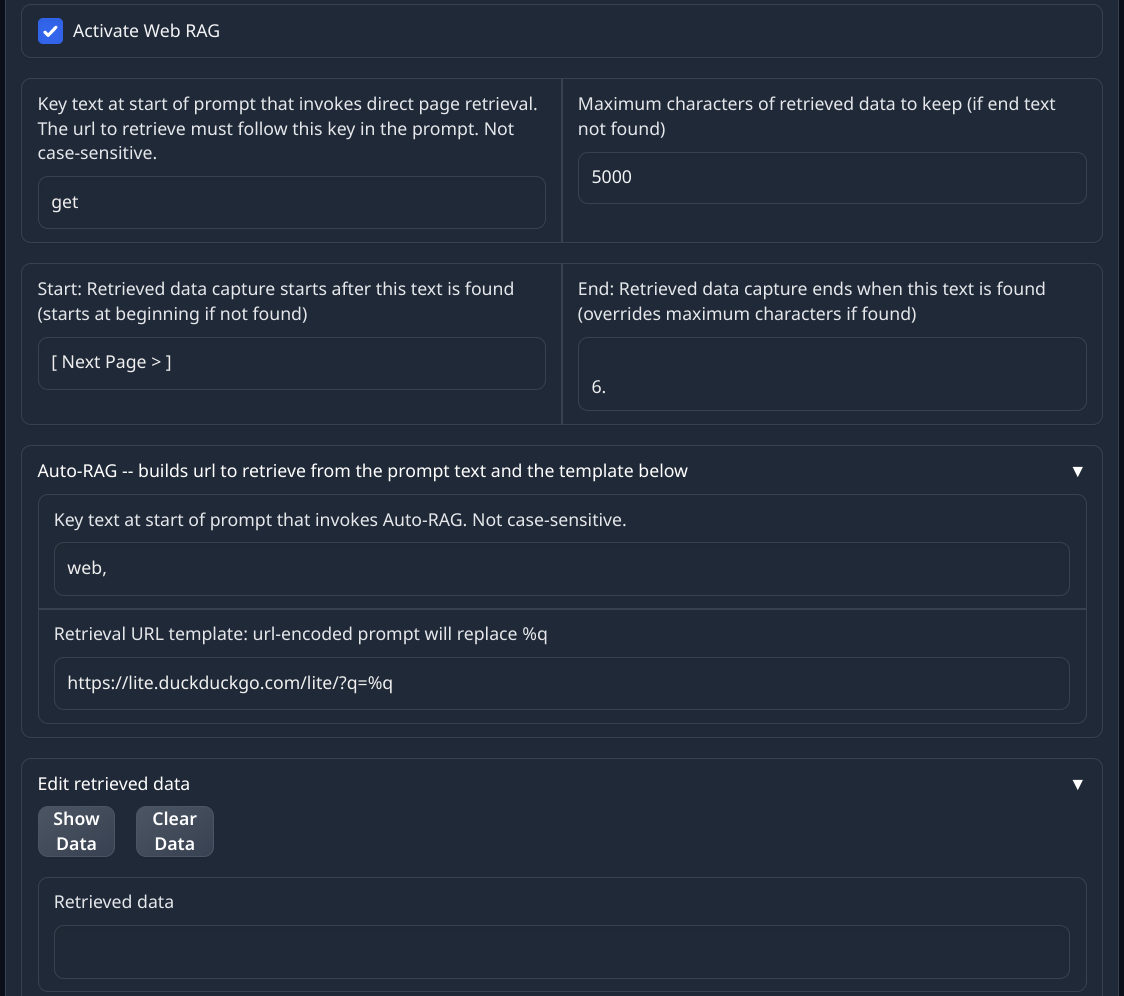
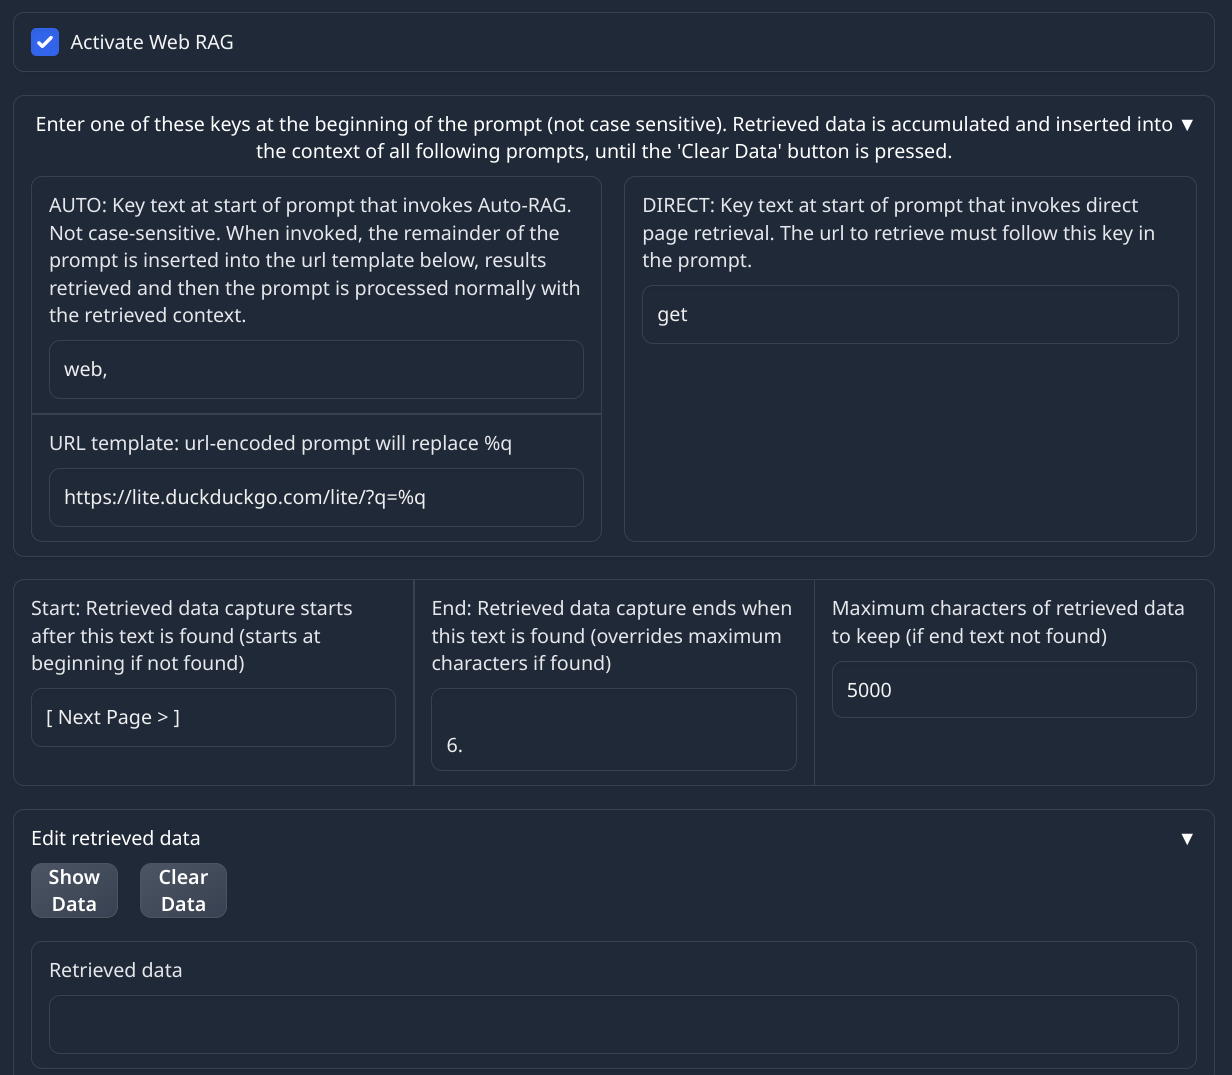
💄 Re-layout UI

Changed region(s): [[0.0, 0.0, 1.0, 1.0], [0.4982, 0.2801, 0.9342, 0.3424], [0.4982, 0.3735, 0.5294, 0.4046]]

diff --git a/script.py b/script.py
@@ -121,18 +121,19 @@ def ui():
     To learn about gradio components, check out the docs:
     https://gradio.app/docs/
     """
-    with gr.Accordion("Web Retrieval-Augmented Generation - Retrieve data from web pages and insert into context"):
+    with gr.Accordion("Web Retrieval-Augmented Generation - Retrieve data from web pages and insert into context", open=True):
         activate = gr.Checkbox(value=params['activate'], label='Activate Web RAG')
-        with gr.Row():
-            get_key = gr.Textbox(value=params['get_key'], label="Key text at start of prompt that invokes direct page retrieval.  The url to retrieve must follow this key in the prompt. Not case-sensitive.")
-            maxchars = gr.Number(value=params['max'], label='Maximum characters of retrieved data to keep (if end text not found)')
+        with gr.Accordion("Enter one of these keys at the beginning of the prompt (not case sensitive). Retrieved data is accumulated and inserted into the context of all following prompts, until the 'Clear Data' button is pressed.", open=True):
+            with gr.Row():
+                with gr.Column():
+                    key = gr.Textbox(value=params['auto_key'], label="AUTO: Key text at start of prompt that invokes Auto-RAG. Not case-sensitive. When invoked, the remainder of the prompt is inserted into the url template below, results retrieved and then the prompt is processed normally with the retrieved context.")
+                    url = gr.Textbox(value=params['url'], label='URL template: url-encoded prompt will replace %q')
+                get_key = gr.Textbox(value=params['get_key'], label="DIRECT: Key text at start of prompt that invokes direct page retrieval.  The url to retrieve must follow this key in the prompt.")
         with gr.Row():
             start = gr.Textbox(value=params['start'], label='Start: Retrieved data capture starts after this text is found (starts at beginning if not found)')
             end = gr.Textbox(value=params['end'], label='End: Retrieved data capture ends when this text is found (overrides maximum characters if found)')
-        with gr.Accordion("Auto-RAG -- builds url to retrieve from the prompt text and the template below", open=True):
-            key = gr.Textbox(value=params['auto_key'], label="Key text at start of prompt that invokes Auto-RAG. Not case-sensitive.")
-            url = gr.Textbox(value=params['url'], label='Retrieval URL template: url-encoded prompt will replace %q')
-        with gr.Accordion("Edit retrieved data", open=False):
+            maxchars = gr.Number(value=params['max'], label='Maximum characters of retrieved data to keep (if end text not found)')
+        with gr.Accordion("Edit retrieved data", open=True):
             with gr.Row():
                 edit = gr.Button("Show Data", elem_classes='refresh-button')
                 clear = gr.Button("Clear Data", elem_classes='refresh-button')
